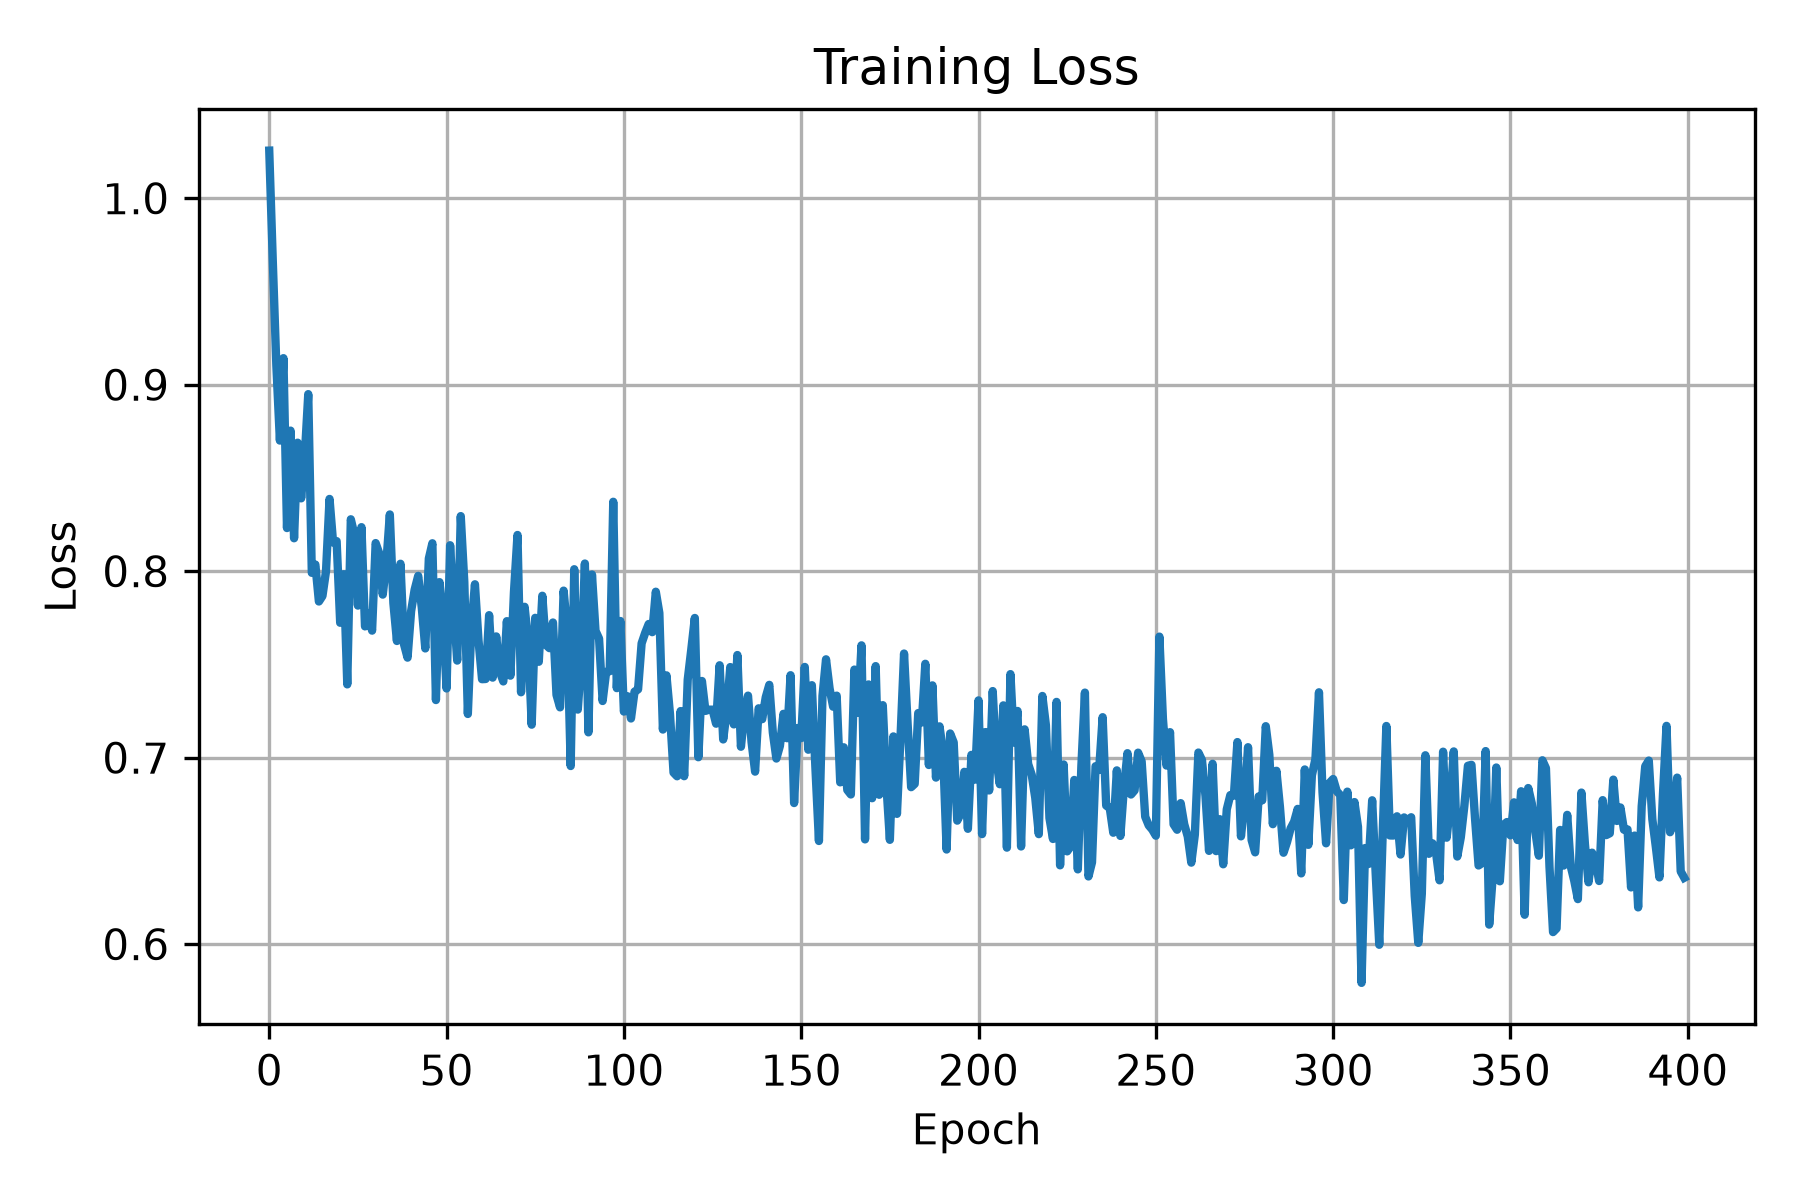
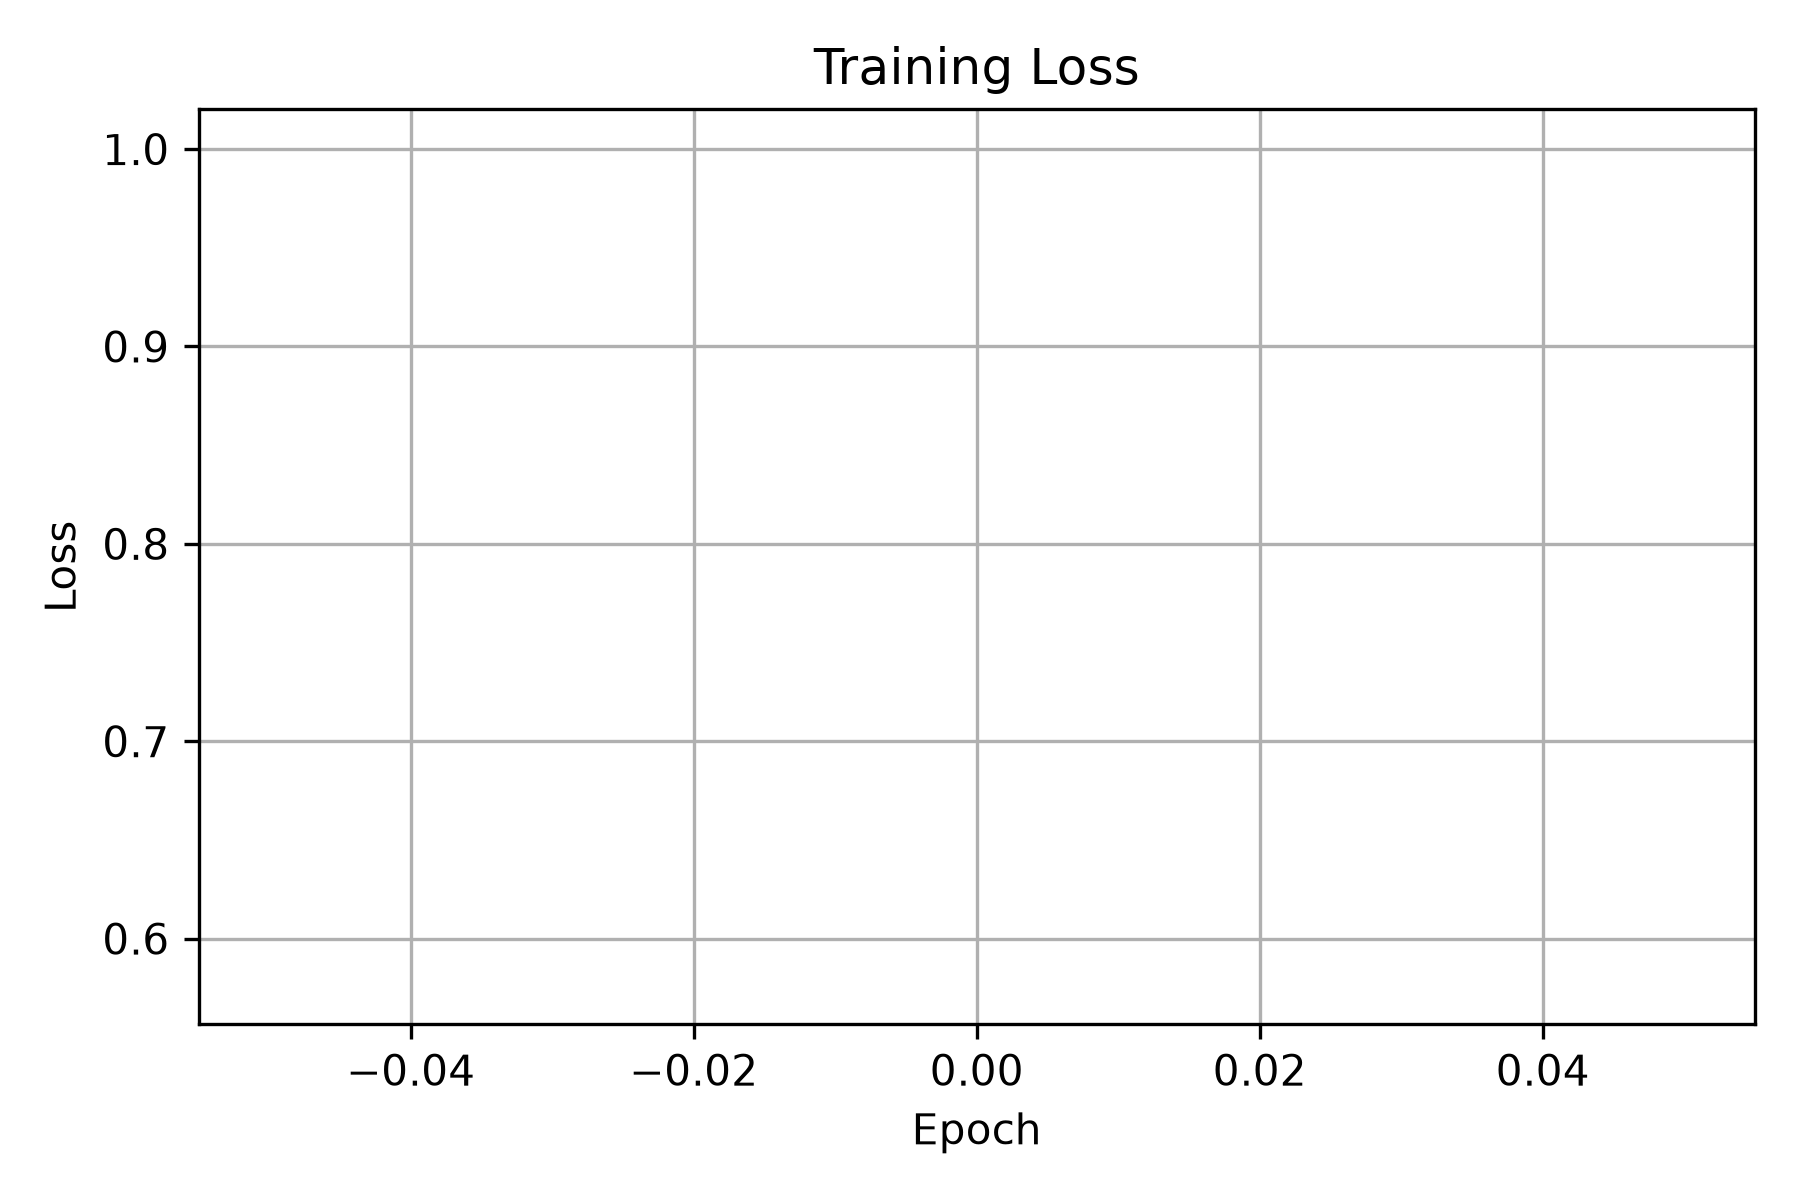
refactor: improve reproducibility and streamline diffusion training

diff --git a/utils/trainer.py b/utils/trainer.py
@@ -11,7 +11,6 @@ def train(
     diffuser: nn.Module,
     batch_size: int = 128,
     n_epochs: int = 400,
-    sample_size: int = 512,
     seed: int = 42,
 ):
     """
@@ -39,6 +38,7 @@ def train(
     X = make_swiss_roll(
         n_samples=N,
         noise=1e-1,
+        random_state=seed,
     )[0][:, [0, 2]] / 10.0
 
     # Optimizer
@@ -48,8 +48,6 @@ def train(
     )
 
     losses = []
-    ddpm_samples = []
-    ddim_samples = []
 
     with tqdm(total=n_epochs) as pbar:
         for epoch in range(n_epochs):
@@ -102,27 +100,4 @@ def train(
                 f"| Loss {avg_loss:.4f}"
             )
 
-            # Generate samples for visualization.
-            ddpm_sample = diffuser.ddpm_sample(
-                model,
-                n_samples=sample_size,
-            )
-
-            ddim_sample = diffuser.ddim_sample(
-                model,
-                n_samples=sample_size,
-            )
-
-            ddpm_samples.append(
-                ddpm_sample.detach().cpu()
-            )
-
-            ddim_samples.append(
-                ddim_sample.detach().cpu()
-            )
-
-    return (
-        losses,
-        ddpm_samples,
-        ddim_samples,
-    )
+    return losses

diff --git a/diffusion/ddim.py b/diffusion/ddim.py
@@ -149,26 +149,27 @@ class DDIM(nn.Module):
                     / torch.sqrt(1.0 - alpha_bar_t)
                 ) / torch.sqrt(alpha_t)
 
-                # Reverse-process noise scale
-                sigma_t = torch.sqrt(
-                    1.0 - self.alpha[t]
-                )
+                # Add stochastic noise except at the final step
+                if t > 0:
+                    sigma_t = torch.sqrt(
+                        1.0 - self.alpha[t]
+                    )
 
-                # Add stochastic Gaussian noise
-                z = torch.randn_like(x)
+                    z = torch.randn_like(x)
 
-                x = x_mean + sigma_t * z
+                    x = x_mean + sigma_t * z
+                else:
+                    x = x_mean
 
                 if return_trajectory:
                     trajectory.append(
-                        x_mean.detach().cpu().clone()
+                        x.detach().cpu().clone()
                     )
 
             if return_trajectory:
                 return trajectory
 
-            # Return x_mean to avoid adding noise at the final step
-            return x_mean
+            return x
 
     def ddim_sample(
         self,

diff --git a/train.py b/train.py
@@ -1,10 +1,11 @@
 import os
+import numpy as np
 import torch
 
 from models.unet import BasicDiscreteTimeModel
 from diffusion.ddim import DDIM
 from utils.trainer import train
-from utils.visualization import save_all_results
+from utils.visualization import save_loss_curve
 
 
 # =========================
@@ -17,10 +18,18 @@ n_layers = 2
 
 batch_size = 128
 n_epochs = 400
-sample_size = 512
 
 seed = 42
 
+# =========================
+# Reproducibility
+# =========================
+
+np.random.seed(seed)
+torch.manual_seed(seed)
+
+if torch.cuda.is_available():
+    torch.cuda.manual_seed_all(seed)
 
 # =========================
 # Device
@@ -61,12 +70,11 @@ diffuser = DDIM(
 # Training
 # =========================
 
-losses, ddpm_samples, ddim_samples = train(
+losses = train(
     model=model,
     diffuser=diffuser,
     batch_size=batch_size,
     n_epochs=n_epochs,
-    sample_size=sample_size,
     seed=seed,
 )
 
@@ -92,11 +100,7 @@ torch.save(
 # Save Results
 # =========================
 
-save_all_results(
-    losses,
-    ddpm_samples,
-    ddim_samples,
-)
+save_loss_curve(losses)
 
 
 print("\nTraining finished!")
